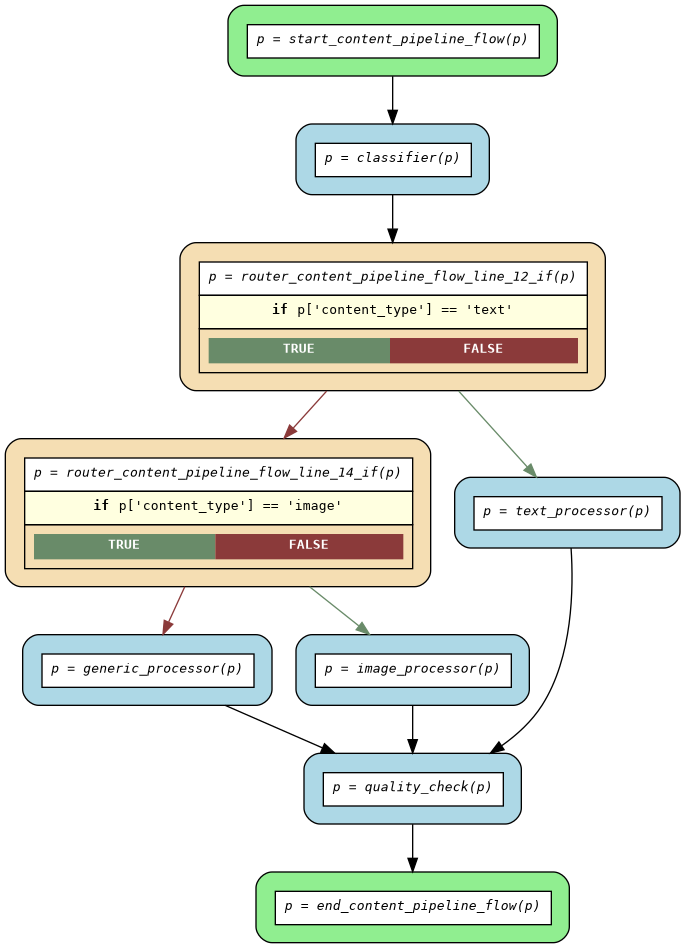
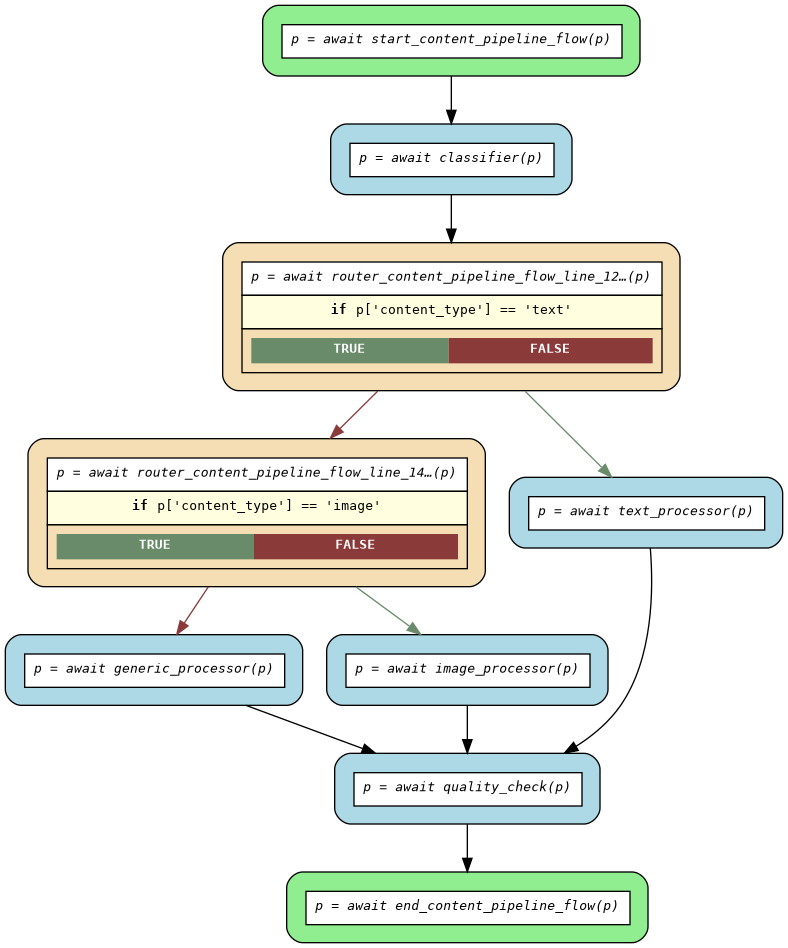
fix(flow): show await in diagram labels, descriptive errors for unsupported expressions
- DotGenerator renders `p = await handler(p)` labels for async flows
- Thread `is_async` flag from parser through compiler to dotgen
- Add `_parse_expr` with descriptive errors for yield, standalone
  await, standalone function calls, and generic expressions
- Restore react_* exclusion in pre-commit config

diff --git a/src/asya-cli/asya_cli/flow/parser.py b/src/asya-cli/asya_cli/flow/parser.py
@@ -51,6 +51,7 @@ class FlowParser:
         self.filename = filename
         self.module_path = module_path
         self.flow_name: str | None = None
+        self.is_async: bool = False  # Whether flow function is async def
         self.instances: dict[str, str] = {}  # Map instance variable to class name
         self.class_methods: set[str] = set()  # Track class method handlers
         self._loop_depth: int = 0  # Track nesting depth for break/continue validation
@@ -68,6 +69,7 @@ class FlowParser:
             raise FlowCompileError("No flow function found (signature: def name(p: dict) -> dict)")
 
         self.flow_name = flow_func.name
+        self.is_async = isinstance(flow_func, ast.AsyncFunctionDef)
 
         # Normalize parameter name to "p" so generated code is consistent
         param_name = flow_func.args.args[0].arg
@@ -134,6 +136,8 @@ class FlowParser:
             return [Continue(lineno=stmt.lineno)]
         elif isinstance(stmt, ast.Raise):
             return self._parse_raise(stmt)
+        elif isinstance(stmt, ast.Expr):
+            return self._parse_expr(stmt)
         else:
             raise FlowCompileError(f"{self.filename}:{stmt.lineno}: Unsupported statement type: {type(stmt).__name__}")
 
@@ -319,6 +323,23 @@ class FlowParser:
                 f"{self.filename}:{stmt.lineno}: 'raise' with arguments is not supported (use bare 'raise' to re-raise)"
             )
         return [Raise(lineno=stmt.lineno)]
+
+    def _parse_expr(self, stmt: ast.Expr) -> list[IROperation]:
+        """Handle bare expression statements with descriptive errors."""
+        value = stmt.value
+        if isinstance(value, ast.Yield | ast.YieldFrom):
+            raise FlowCompileError(f"{self.filename}:{stmt.lineno}: 'yield' is not supported in flow definitions")
+        if isinstance(value, ast.Await):
+            raise FlowCompileError(
+                f"{self.filename}:{stmt.lineno}: standalone 'await' is not supported; "
+                f"assign the result to 'p' (e.g. p = await handler(p))"
+            )
+        if isinstance(value, ast.Call):
+            raise FlowCompileError(
+                f"{self.filename}:{stmt.lineno}: standalone function call is not supported; "
+                f"assign the result to 'p' (e.g. p = handler(p))"
+            )
+        raise FlowCompileError(f"{self.filename}:{stmt.lineno}: expression statements are not supported")
 
     def _validate_class_instantiation(self, stmt: ast.Assign) -> None:
         """Validate that class instantiation uses only default arguments."""

diff --git a/src/asya-cli/tests/flow/test_parser.py b/src/asya-cli/tests/flow/test_parser.py
@@ -1383,3 +1383,60 @@ class TestStateParameterNormalization:
 
         assert isinstance(ops[0], Mutation)
         assert contains_with_either_quotes(ops[0].code, 'p["key"]')
+
+
+class TestIsAsyncFlag:
+    """Test that parser tracks whether the flow is async."""
+
+    def test_sync_flow_not_async(self):
+        source = textwrap.dedent("""
+            def flow(p: dict) -> dict:
+                return p
+        """)
+        parser = FlowParser(source, "test.py")
+        parser.parse()
+        assert parser.is_async is False
+
+    def test_async_flow_is_async(self):
+        source = textwrap.dedent("""
+            async def flow(p: dict) -> dict:
+                return p
+        """)
+        parser = FlowParser(source, "test.py")
+        parser.parse()
+        assert parser.is_async is True
+
+
+class TestExprStatementErrors:
+    """Test descriptive errors for unsupported expression statements."""
+
+    def test_yield_gives_descriptive_error(self):
+        source = textwrap.dedent("""
+            async def flow(p: dict) -> dict:
+                while True:
+                    yield p
+                return p
+        """)
+        parser = FlowParser(source, "test.py")
+        with pytest.raises(FlowCompileError, match="'yield' is not supported in flow definitions"):
+            parser.parse()
+
+    def test_standalone_await_gives_descriptive_error(self):
+        source = textwrap.dedent("""
+            async def flow(p: dict) -> dict:
+                await handler(p)
+                return p
+        """)
+        parser = FlowParser(source, "test.py")
+        with pytest.raises(FlowCompileError, match="standalone 'await' is not supported"):
+            parser.parse()
+
+    def test_standalone_call_gives_descriptive_error(self):
+        source = textwrap.dedent("""
+            def flow(p: dict) -> dict:
+                print(p)
+                return p
+        """)
+        parser = FlowParser(source, "test.py")
+        with pytest.raises(FlowCompileError, match="standalone function call is not supported"):
+            parser.parse()

diff --git a/src/asya-cli/asya_cli/flow/dotgen.py b/src/asya-cli/asya_cli/flow/dotgen.py
@@ -22,7 +22,12 @@ class _TryCluster:
 
 class DotGenerator:
     def __init__(
-        self, flow_name: str, routers: list[Router], step_width: int = 50, class_methods: set[str] | None = None
+        self,
+        flow_name: str,
+        routers: list[Router],
+        step_width: int = 50,
+        class_methods: set[str] | None = None,
+        is_async: bool = False,
     ):
         self.flow_name = flow_name
         self.routers = routers
@@ -30,6 +35,7 @@ class DotGenerator:
         self.user_actors: set[str] = set()
         self.router_map: dict[str, Router] = {}
         self.class_methods = class_methods or set()
+        self.is_async = is_async
         self._hidden_routers: set[str] = set()
         self._redirect_map: dict[str, str] = {}
         self._try_clusters: list[_TryCluster] = []
@@ -68,14 +74,15 @@ class DotGenerator:
 
     def _truncate_display_name(self, display_name: str) -> str:
         """Truncate display name if it exceeds step_width."""
-        full_text = f"p = {display_name}(p)"
+        prefix = "p = await " if self.is_async else "p = "
+        full_text = f"{prefix}{display_name}(p)"
         if len(full_text) <= self.step_width:
             return full_text
         # Truncate with ellipsis
         cut = "…"
-        max_len = self.step_width - len("p = (p)") - len(cut)
+        max_len = self.step_width - len(prefix) - len("(p)") - len(cut)
         if max_len > 0:
-            return f"p = {display_name[:max_len]}{cut}(p)"
+            return f"{prefix}{display_name[:max_len]}{cut}(p)"
         return full_text
 
     def generate(self) -> str:

diff --git a/src/asya-cli/asya_cli/flow/compiler.py b/src/asya-cli/asya_cli/flow/compiler.py
@@ -45,6 +45,7 @@ class FlowCompiler:
         self.flow_name: str | None = None
         self.routers: list[Router] = []
         self.class_methods: set[str] = set()
+        self.is_async: bool = False
 
     def compile_file(self, source_file: str, output_dir: str, overwrite: bool = False) -> str:
         source_path = Path(source_file)
@@ -85,7 +86,13 @@ class FlowCompiler:
         if not self.flow_name or not self.routers:
             raise RuntimeError("Must compile flow before generating plot")
 
-        generator = DotGenerator(self.flow_name, self.routers, step_width=plot_width, class_methods=self.class_methods)
+        generator = DotGenerator(
+            self.flow_name,
+            self.routers,
+            step_width=plot_width,
+            class_methods=self.class_methods,
+            is_async=self.is_async,
+        )
         dot_content = generator.generate()
 
         output_path = Path(output_dir)
@@ -129,8 +136,9 @@ class FlowCompiler:
         module_path = _calculate_module_path(filename)
         parser = FlowParser(source_code, filename, module_path)
         flow_name, operations = parser.parse()
-        # Store class methods info for later use by DotGenerator
+        # Store metadata for later use by DotGenerator
         self.class_methods = parser.get_class_methods()
+        self.is_async = parser.is_async
         return flow_name, operations
 
     def _group(self, flow_name: str, operations):
